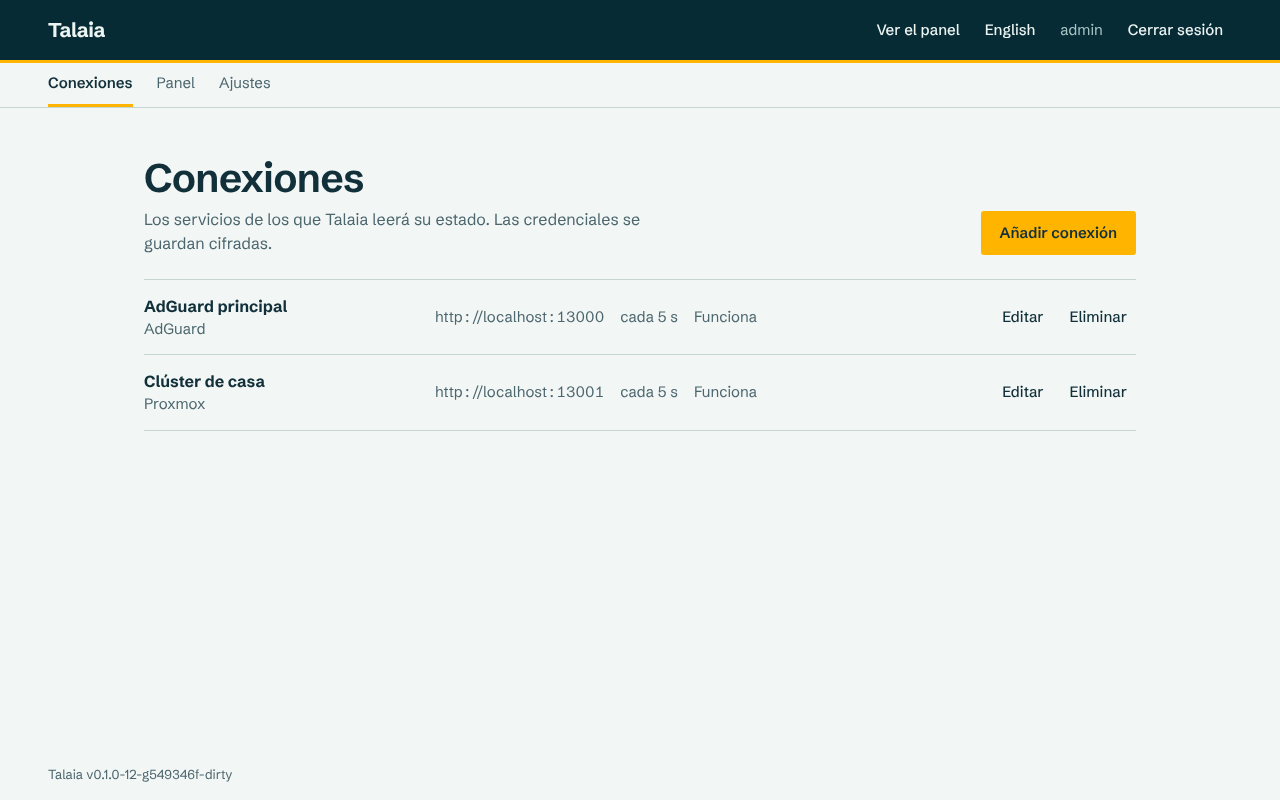
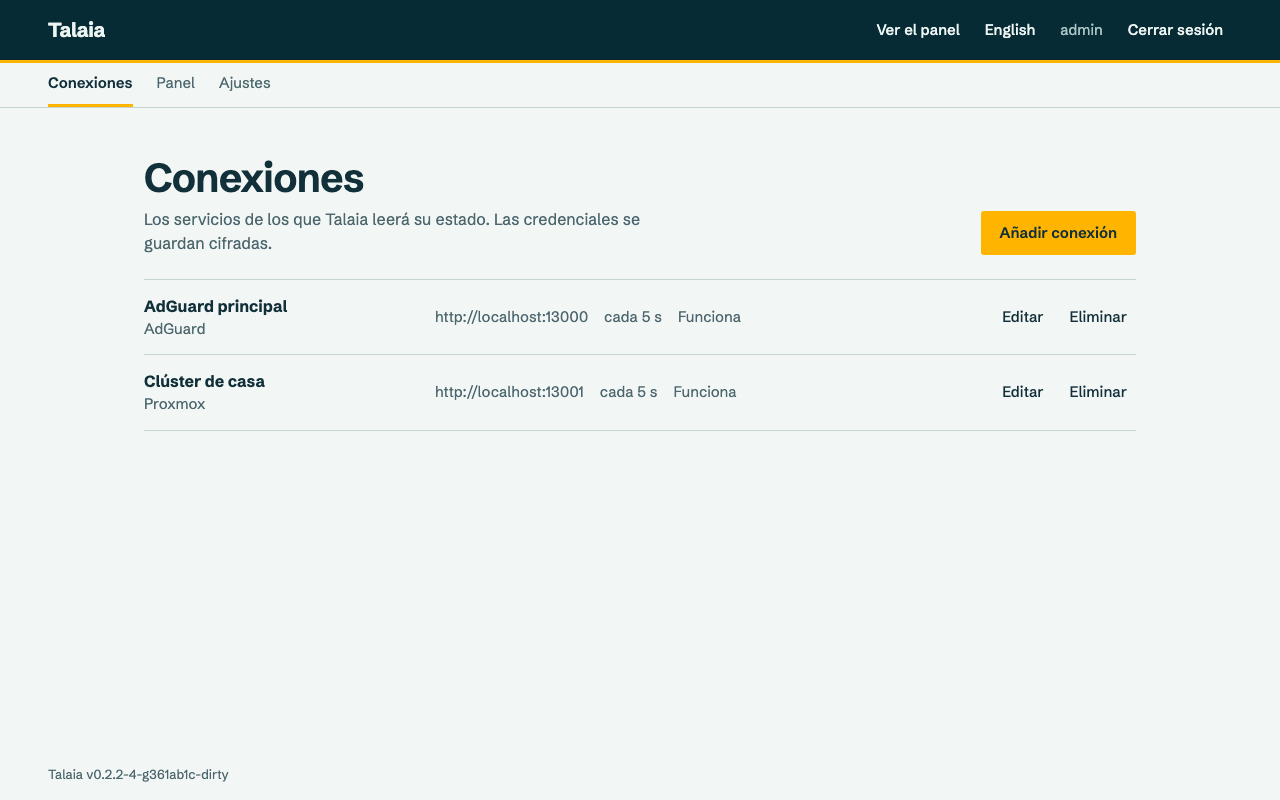
Quita el espaciado de la puntuación en direcciones y valores

diff --git a/web/src/styles.css b/web/src/styles.css
@@ -155,7 +155,7 @@ label { display: grid; gap: 0.3rem; font-weight: 550; font-size: 0.9375rem; }
 .connection-main { display: grid; }
 .connection-main span, .connection-meta { color: var(--ink-soft); font-size: 0.9375rem; }
 .connection-meta { display: flex; flex-wrap: wrap; gap: 0.125rem 1rem; min-width: 0; }
-.url { overflow-wrap: anywhere; font-variant-numeric: tabular-nums; }
+.url { overflow-wrap: anywhere; }
 .warn { color: var(--warn); font-weight: 550; }
 .connection-actions { display: flex; flex-wrap: wrap; align-items: center; justify-content: flex-end; gap: 0.25rem 0.5rem; }
 footer { padding: 1rem clamp(1rem, 4vw, 3rem); color: var(--ink-soft); font-size: 0.8125rem; }
@@ -310,7 +310,7 @@ dialog::backdrop { background: rgb(7 43 53 / 0.6); }
 .tops ol { list-style: none; margin: 0; padding: 0; }
 .tops li { display: flex; justify-content: space-between; gap: 1rem; padding-block: 0.1875rem; font-size: 0.9375rem; }
 .tops li span:first-child { min-width: 0; overflow-wrap: anywhere; }
-.tops li span:last-child { color: var(--ink-soft); font-variant-numeric: tabular-nums; }
+.tops li span:last-child { color: var(--ink-soft); }
 .tops p { color: var(--ink-soft); font-size: 0.9375rem; }
 .nodes { list-style: none; margin: 0; padding: 0; display: grid; gap: 0.25rem; }
 .nodes > li + li { border-top: 1px solid var(--line); padding-top: 0.5rem; }
@@ -329,7 +329,7 @@ details > summary { cursor: pointer; list-style-position: outside; margin-left: 
 .guests-wrap { margin: 0.25rem 0 0.75rem 1rem; overflow-x: auto; }
 .guests { width: 100%; border-collapse: collapse; font-size: 0.875rem; }
 .guests th { text-align: left; font-weight: 550; color: var(--ink-soft); padding: 0.25rem 0.75rem 0.25rem 0; border-bottom: 1px solid var(--line); }
-.guests td { padding: 0.25rem 0.75rem 0.25rem 0; font-variant-numeric: tabular-nums; }
+.guests td { padding: 0.25rem 0.75rem 0.25rem 0; }
 .guests tr.stopped td { color: var(--ink-soft); }
 .guest-id { color: var(--ink-soft); }
 .no-guests { color: var(--ink-soft); font-size: 0.875rem; margin: 0.25rem 0 0.5rem 1rem; }
@@ -338,7 +338,7 @@ details > summary { cursor: pointer; list-style-position: outside; margin-left: 
 .ha-entities { list-style: none; margin: 0; padding: 0; display: grid; grid-template-columns: repeat(auto-fill, minmax(min(100%, 13rem), 1fr)); gap: 0 2.5rem; }
 .ha-entities li { display: flex; justify-content: space-between; gap: 1rem; padding-block: 0.1875rem; font-size: 0.9375rem; }
 .ha-entities li span:first-child { min-width: 0; overflow-wrap: anywhere; }
-.ha-entities li span:last-child { color: var(--ink-soft); font-variant-numeric: tabular-nums; text-align: right; }
+.ha-entities li span:last-child { color: var(--ink-soft); text-align: right; }
 .gateways { grid-template-columns: repeat(auto-fill, minmax(min(100%, 20rem), 1fr)); }
 .gateways li span:last-child { font-variant-numeric: normal; }
 .ha-entities li.no-data span:last-child { color: var(--warn); font-weight: 550; }

diff --git a/docs/proyecto/06-estado-y-cambios.md b/docs/proyecto/06-estado-y-cambios.md
@@ -18,6 +18,11 @@
 
 ## Historial
 
+### Espaciado de cifras y direcciones (2026-11-09)
+
+**Corregido:**
+- Las direcciones de Conexiones y algunos valores de los bloques (tops de AdGuard, tabla de VM y LXC, entidades de Home Assistant) se veían con espacios alrededor de los puntos y las comas, como `https : //…`. Usaban dígitos de ancho fijo, que en Schibsted Grotesk también ensanchan la puntuación (ver DEC-36). Ahora solo los usan los porcentajes de las barras de los nodos, que no llevan puntuación.
+
 ### `v0.2.2` (2026-11-09)
 
 Versión de mantenimiento con el hito 11, que resume el estado de todos los servicios en la cabecera del panel, y un instalador que ya no deja Talaia parado sin avisar si falla una actualización. Incluye los binarios para amd64 y arm64, las sumas de comprobación y el instalador, y se actualiza desde `v0.2.1` con `talaia-proxmox.sh update`.
